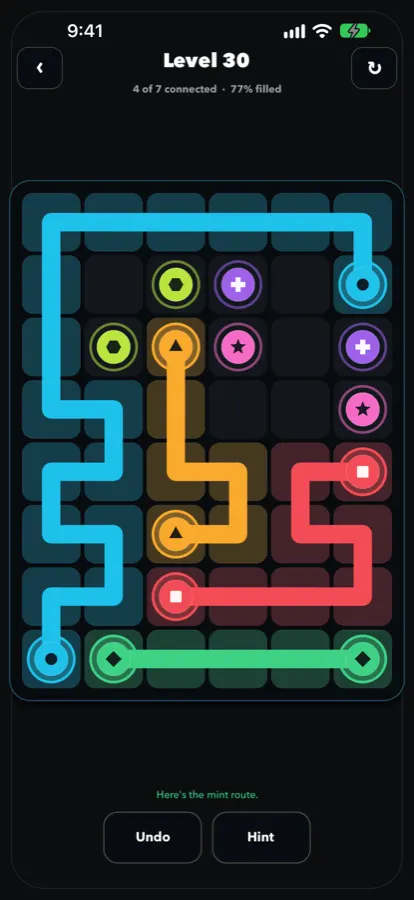
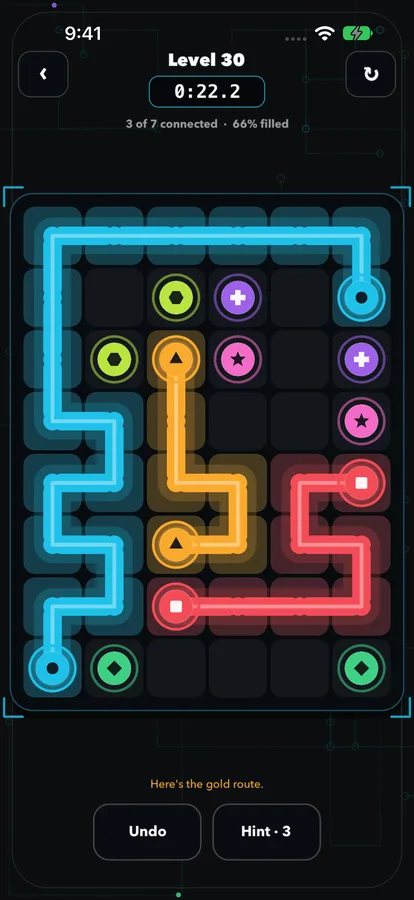
Circuit Weave: timed circuits, new screenshots

diff --git a/index.html b/index.html
@@ -625,7 +625,7 @@ html:not(.js) .app .close, html:not(.js) .app .bar, html:not(.js) .app .cover, h
                   <ul>
                     <li><button type="button" data-open="tap-against-time"><img src="assets/games/tat-icon.webp" alt=""><b>Tap Against Time</b><span class="pill live">On the App Store</span></button></li>
                     <li><button type="button" data-open="dockside"><img src="assets/games/dockside-icon.webp" alt=""><b>Dockside: Cast Off</b><span class="pill review">In review</span></button></li>
-                    <li><button type="button" data-open="circuit-weave"><img src="assets/games/cw-icon.webp" alt=""><b>Circuit Weave</b><span class="pill review">In review</span></button></li>
+                    <li><button type="button" data-open="circuit-weave"><img src="assets/games/cw-icon.webp" alt=""><b>Circuit Weave</b><span class="pill review">Timed update</span></button></li>
                     <li><button type="button" data-open="raccoon-raid"><img src="assets/games/rr-icon.webp" alt=""><b>Raccoon Raid</b><span class="pill test">In testing</span></button></li>
                     <li><button type="button" data-open="shadowbound"><img src="assets/games/sb-icon.webp" alt=""><b>Shadowbound</b><span class="pill dev">In development</span></button></li>
                   </ul>
@@ -682,7 +682,7 @@ html:not(.js) .app .close, html:not(.js) .app .bar, html:not(.js) .app .cover, h
         <div class="lock-time" id="lock-time" aria-hidden="true">9:41</div>
         <div class="notes" aria-label="Notifications">
           <button class="note glass" type="button" data-app="raccoon-raid" style="--n:0"><img src="assets/games/rr-icon.webp" alt=""><span><span class="meta"><span>Raccoon Raid</span><span>now</span></span><b>Now in testing</b><span class="body">Wreck the campsite. Coming to the App Store.</span></span></button>
-          <button class="note glass" type="button" data-app="circuit-weave" style="--n:1"><img src="assets/games/cw-icon.webp" alt=""><span><span class="meta"><span>Circuit Weave</span><span>2h ago</span></span><b>In App Store review</b><span class="body">Join every pair, fill every square.</span></span></button>
+          <button class="note glass" type="button" data-app="circuit-weave" style="--n:1"><img src="assets/games/cw-icon.webp" alt=""><span><span class="meta"><span>Circuit Weave</span><span>now</span></span><b>Now with a timer</b><span class="body">Every circuit is a race. Beat your best time.</span></span></button>
           <button class="note glass" type="button" data-app="dockside" style="--n:2"><img src="assets/games/dockside-icon.webp" alt=""><span><span class="meta"><span>Dockside</span><span>1d ago</span></span><b>In App Store review</b><span class="body">Free the red boat. 150 harbours.</span></span></button>
           <button class="note glass" type="button" data-app="tap-against-time" style="--n:3" data-play="1"><img src="assets/games/tat-icon.webp" alt=""><span><span class="meta"><span>Tap Against Time</span><span></span></span><b>Free on the App Store</b><span class="body">Tap to play a round right here.</span></span></button>
         </div>
@@ -744,10 +744,10 @@ html:not(.js) .app .close, html:not(.js) .app .bar, html:not(.js) .app .cover, h
         <div class="scroll">
           <div class="app-head">
             <img src="assets/games/cw-icon.webp" alt="" width="96" height="96">
-            <div><h2 id="h-cw">Circuit Weave</h2><div class="status-line">In App Store review</div><span class="get wait">Coming once Apple approves it</span></div>
+            <div><h2 id="h-cw">Circuit Weave</h2><div class="status-line">New: timed circuits</div><span class="get wait">Coming soon to the App Store</span></div>
           </div>
-          <p class="about-text">Join every pair and fill every square without crossing a line. Boards grow from 4×4 to 6×8, and every colour has its own shape.</p>
-          <div class="shots"><img src="assets/games/cw-1.webp" alt="A Circuit Weave board with routes filling most of the squares" width="414" height="900" loading="lazy"><img src="assets/games/cw-2.webp" alt="An early 5 by 5 Circuit Weave board, each colour marked with its own shape" width="414" height="900" loading="lazy"></div>
+          <p class="about-text">Join every pair and fill every square without crossing a line, against the clock. The timer starts the moment your finger touches a signal, and every circuit keeps your best time. 150 circuits grow from 4×4 to 7×10, and every colour has its own shape.</p>
+          <div class="shots"><img src="assets/games/cw-1.webp" alt="A Circuit Weave board mid-solve with glowing routes and the timer running at 0:22.2" width="414" height="900" loading="lazy"><img src="assets/games/cw-2.webp" alt="A finished Circuit Weave board, every square filled, solved in 0:41.7" width="414" height="900" loading="lazy"><img src="assets/games/cw-3.webp" alt="The Perfect circuit panel showing the time and the best time" width="414" height="900" loading="lazy"></div>
           <div class="links"><a href="circuit-weave-privacy.html">Privacy policy</a></div>
         </div>
         <button class="close glass" type="button" aria-label="Close Circuit Weave"><svg viewBox="0 0 14 14" stroke="#fff" stroke-width="2" stroke-linecap="round"><path d="M2 2l10 10M12 2 2 12"/></svg></button>
@@ -1261,10 +1261,10 @@ html:not(.js) .app .close, html:not(.js) .app .bar, html:not(.js) .app .cover, h
 
   // ---- notification banners: a few drop in while you look around
   var NEWS = [
+    { app: "circuit-weave", img: "assets/games/cw-icon.webp", name: "Circuit Weave", title: "Race the clock", body: "Circuit Weave is now timed. Beat your best." },
     { app: "raccoon-raid", img: "assets/games/rr-icon.webp", name: "Raccoon Raid", title: "The bear is awake", body: "Raccoon Raid is in testing. Coming to the App Store." },
     { app: "shadowbound", img: "assets/games/sb-icon.webp", name: "Shadowbound", title: "The tower lies", body: "500 towers, one ninja. Shadowbound is coming soon." },
     { app: "tap-against-time", img: "assets/games/tat-icon.webp", name: "Tap Against Time", title: "Beat your best", body: "Play a quick round right here.", play: true },
-    { app: "circuit-weave", img: "assets/games/cw-icon.webp", name: "Circuit Weave", title: "Waiting on Apple", body: "Circuit Weave is in App Store review." },
     { app: "dockside", img: "assets/games/dockside-icon.webp", name: "Dockside", title: "Harbour traffic", body: "Dockside: Cast Off is in App Store review." }
   ];
   var banner = document.getElementById("banner"), bNow = null, bIndex = 0, bShown = 0, bTimer = 0, bHide = 0, bSwiped = false;
@@ -1315,7 +1315,7 @@ html:not(.js) .app .close, html:not(.js) .app .bar, html:not(.js) .app .cover, h
   var IDX = [
     { t: "Tap Against Time", s: "Game · Free on the App Store", img: "assets/games/tat-icon.webp", k: "tap time circle reflex", app: "tap-against-time" },
     { t: "Dockside: Cast Off", s: "Game · In App Store review", img: "assets/games/dockside-icon.webp", k: "boats harbour harbor puzzle", app: "dockside" },
-    { t: "Circuit Weave", s: "Game · In App Store review", img: "assets/games/cw-icon.webp", k: "puzzle lines pairs wires", app: "circuit-weave" },
+    { t: "Circuit Weave", s: "Game · Coming soon", img: "assets/games/cw-icon.webp", k: "puzzle lines pairs wires timer timed race", app: "circuit-weave" },
     { t: "Raccoon Raid: Campsite Chaos", s: "Game · In testing", img: "assets/games/rr-icon.webp", k: "slingshot bear camp raccoon trailer video", app: "raccoon-raid" },
     { t: "Shadowbound", s: "Game · In development", img: "assets/games/sb-icon.webp", k: "ninja wall jump tower rage hard climb", app: "shadowbound" },
     { t: "Play Tap Against Time", s: "A quick round, right here", img: "assets/games/tat-icon.webp", k: "play game round score mini", app: "tap-against-time", play: true },
